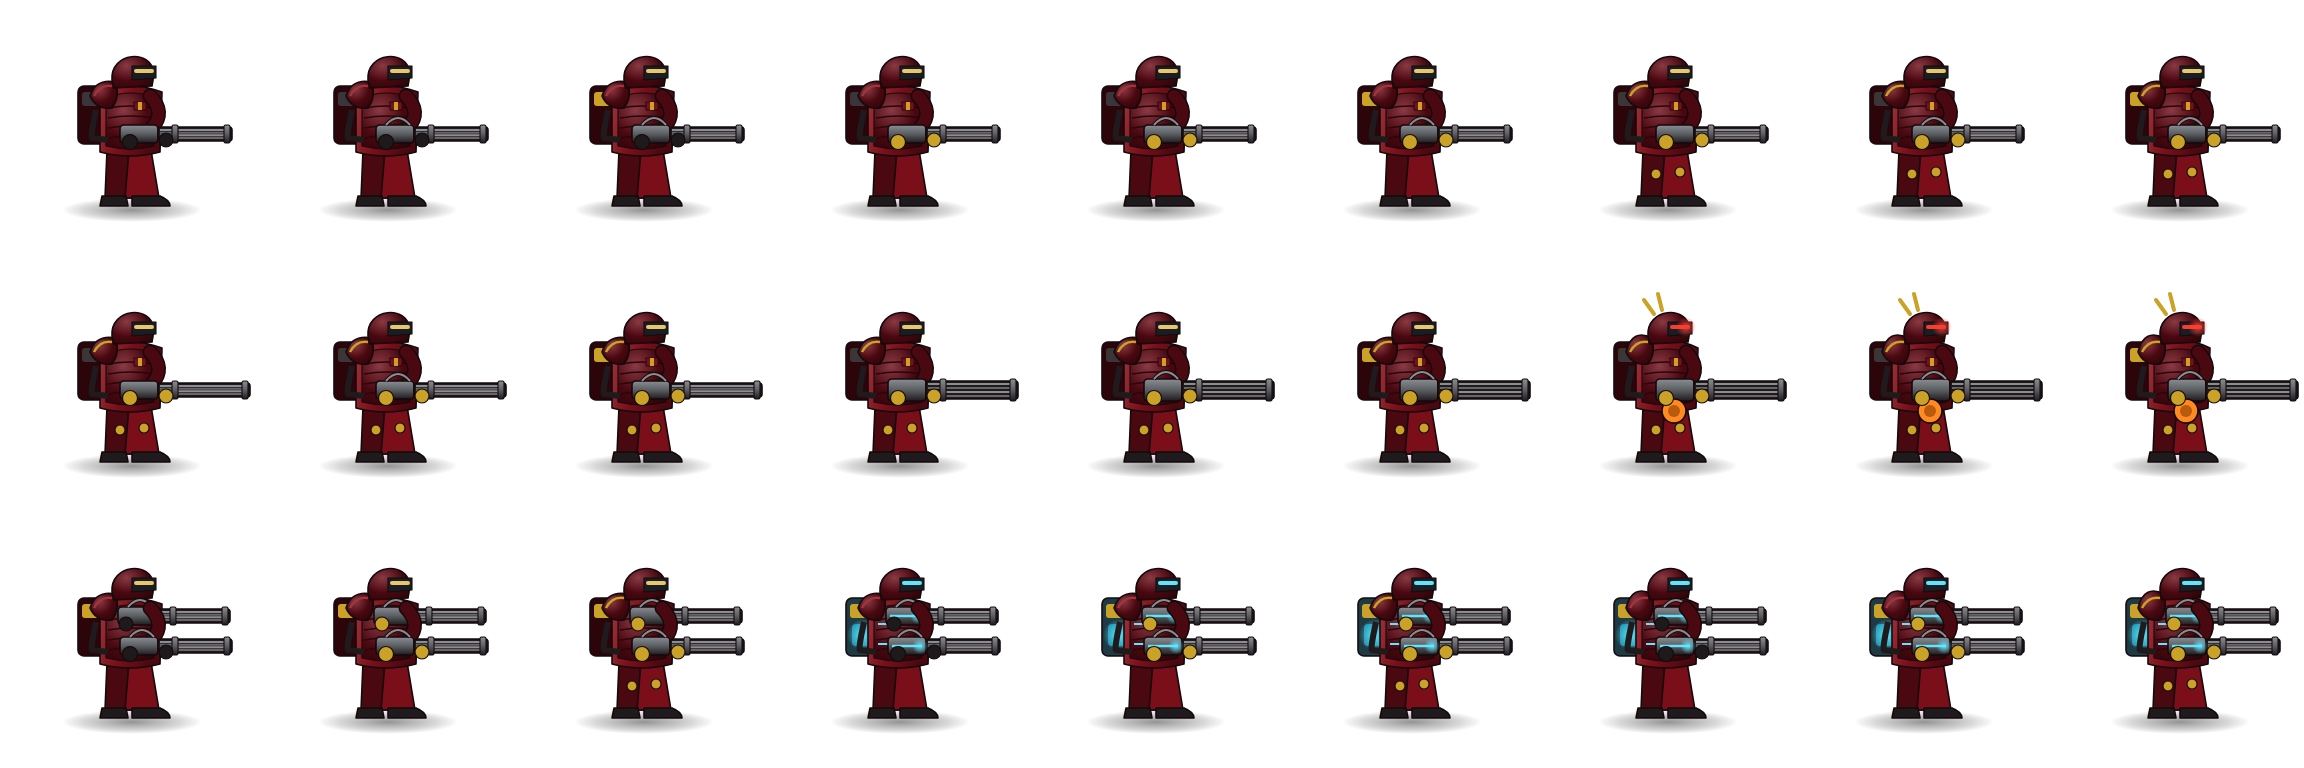
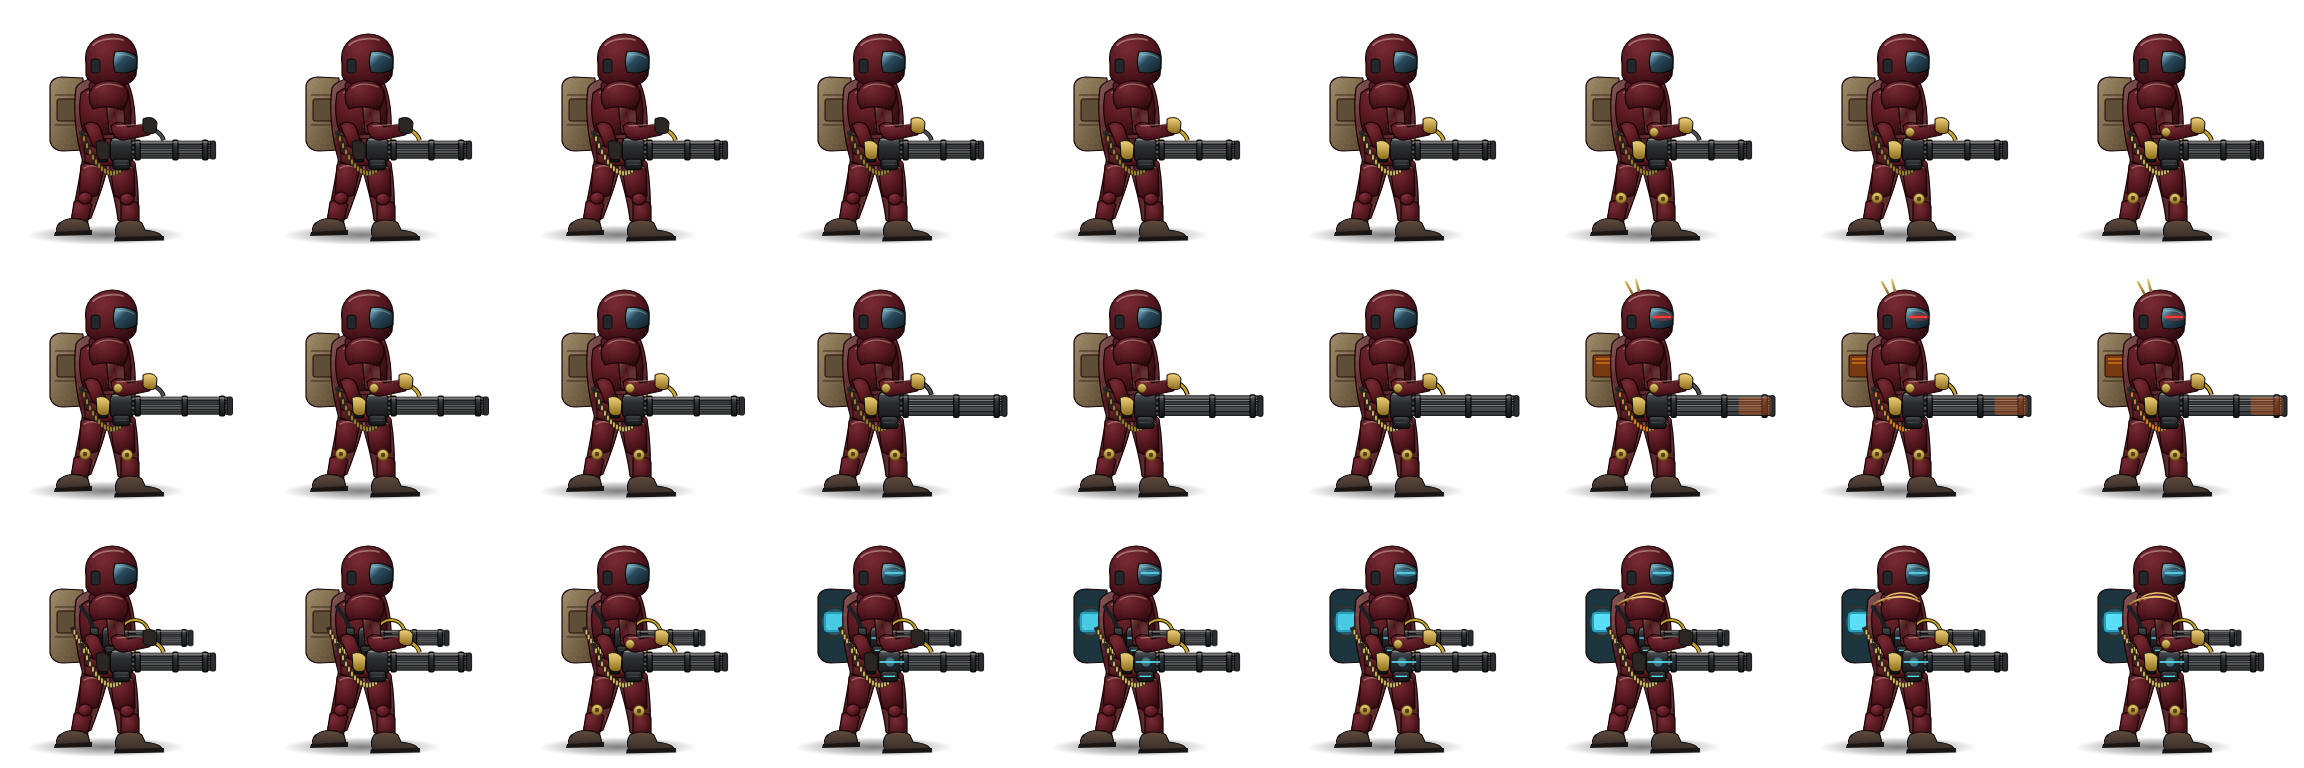
Juggernaut im neuen Detailstil (alle 27 Stufen)
Claude-Session: https://claude.ai/code/session_01H2UiKssafjRzK7unKsx8yK

diff --git a/index.html b/index.html
@@ -128,6 +128,6 @@ button{touch-action:manipulation}#feld{touch-action:none}
   <div id="toast" role="status" aria-live="polite" style="position:absolute;left:570px;top:96px;transform:translateX(-50%);display:none;z-index:5;background:#2B0509;border:2px solid #C9A227;border-radius:12px;padding:12px 20px;font-weight:800;font-size:17px;color:#E8C766;white-space:nowrap"></div>
   <div id="overlay"><div class="karte" id="overlayInhalt"></div></div>
 </div>
-<script src="spiel.js?v=2026-11-20-3"></script>
+<script src="spiel.js?v=2026-11-20-4"></script>
 </body>
 </html>

diff --git a/spiel.js b/spiel.js
@@ -1,7 +1,7 @@
 // Maiskolbistan Militär-Defense – Testkarte 1 (Westkolbistan)
 // Reines JavaScript, kein Bau-Schritt. Grafiken aus dem Maiskolbistan-Info-Repo (seiten/td-ranger-sprites).
 'use strict';
-const VERSION = '2026-11-20-3';   // bei jedem Update hochzählen (auch in index.html)
+const VERSION = '2026-11-20-4';   // bei jedem Update hochzählen (auch in index.html)
 
 (() => {
   const W = 1140, H = 810, MITTE = 570;

diff --git a/README.md b/README.md
@@ -135,7 +135,7 @@ Anzeige im Spiel: Rauch-, Lawinen- und Sandsturmwolken, eingefrorene Türme (bla
 
 ## Grafikstil (Umstellung läuft)
 
-Der **Ranger** ist im neuen, detaillierteren Stil gezeichnet (nach Fotovorlagen): vorgelehnter Anschlag, Plattenträger, Helm mit Headset, Gewehr in M4-Bauart, Stofftextur und Tarnmuster, Licht von oben links. Stufen: Präzision 1 Laservisier (Strahl) · 2 Elite (Zielfernrohr, goldene Winkel) · 3 Nachtsichtgerät · 4 schweres Gewehr (langer Lauf, Zweibein) · 5 leichtes MG mit Patronenkasten. Sturm 1 Goldspitzen-Munition · 2 Waffenlicht · 3 Schulter-, Hals- und Leistenschutz · 4 Granatwerfer und Handgranaten · 5 Sturmhaube mit Visier. Der **Scharfschütze** ist ebenfalls umgestellt (kniender Anschlag, Ellbogen auf dem Knie, Gewehr in M110-Bauart): Phantom 1 Buschhut + Tarnschminke · 2 Wärmebild-Vorsatz · 3 Schalldämpfer · 4 Ghillie-Kapuze und Tarnstreifen · 5 voller Ghillie mit Maisblättern; Schwerkaliber 1 längerer Lauf · 2 .50-Gewehr mit Mündungsbremse · 3 Helm und Panzerung · 4 Leuchtpistole · 5 Laser-Gewehr. Die übrigen Türme folgen nacheinander.
+Der **Ranger** ist im neuen, detaillierteren Stil gezeichnet (nach Fotovorlagen): vorgelehnter Anschlag, Plattenträger, Helm mit Headset, Gewehr in M4-Bauart, Stofftextur und Tarnmuster, Licht von oben links. Stufen: Präzision 1 Laservisier (Strahl) · 2 Elite (Zielfernrohr, goldene Winkel) · 3 Nachtsichtgerät · 4 schweres Gewehr (langer Lauf, Zweibein) · 5 leichtes MG mit Patronenkasten. Sturm 1 Goldspitzen-Munition · 2 Waffenlicht · 3 Schulter-, Hals- und Leistenschutz · 4 Granatwerfer und Handgranaten · 5 Sturmhaube mit Visier. Der **Scharfschütze** ist ebenfalls umgestellt (kniender Anschlag, Ellbogen auf dem Knie, Gewehr in M110-Bauart): Phantom 1 Buschhut + Tarnschminke · 2 Wärmebild-Vorsatz · 3 Schalldämpfer · 4 Ghillie-Kapuze und Tarnstreifen · 5 voller Ghillie mit Maisblättern; Schwerkaliber 1 längerer Lauf · 2 .50-Gewehr mit Mündungsbremse · 3 Helm und Panzerung · 4 Leuchtpistole · 5 Laser-Gewehr. Der **Juggernaut** ebenfalls (schwere Plattenrüstung mit Visierhelm, Minigun in M134-Bauart in Hüfthöhe, Munitionsrucksack mit Gurt): Feuerwalze 1 goldene Kraft-Handschuhe · 2 goldene Gelenkdämpfer · 3 lange Läufe · 4 Power-Minigun · 5 HE (glühende Läufe, rotes Visier, Hörner); Doppelfeuer 1 goldener Tragegriff · 2 AP-Gurt (gold) · 3 zweite Minigun am Schulterarm · 4 Cyan-Energierucksack · 5 Volle Leistung (Goldkanten). Die übrigen Türme folgen nacheinander.
 
 ## Turm-Paket 1 (nach TDX-Wiki)
 
